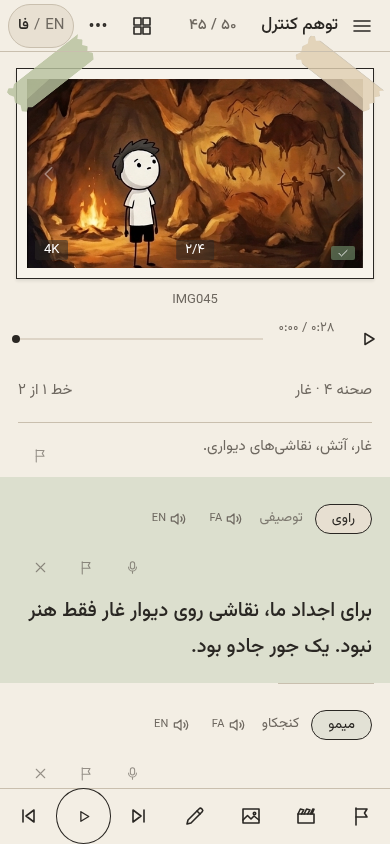
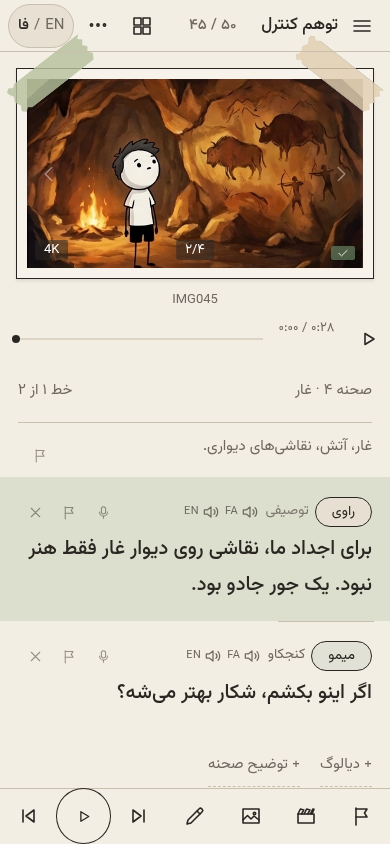
نسخهٔ ۲٫۳: پاکسازی و مستند؛ حذف نوشتن model سطح صحنه، راهنمای مهاجرت در update.py، آیکونهای خط موبایل در یک ردیف، بهروزرسانی مستندات

diff --git a/tools/ui/css/mobile.css b/tools/ui/css/mobile.css
@@ -297,6 +297,35 @@
     min-width:44px;
   }
 
+  /* a dialogue line's chip and its icons share one row: the 44px hit areas overlap the row (negative margins), they do not make it taller */
+  .who {
+    flex-wrap:nowrap;
+    gap:0 6px;
+    min-height:28px;
+  }
+
+  .who .nm {
+    min-width:0;
+    min-height:28px;
+    flex:0 1 auto;
+    overflow:hidden;
+    text-overflow:ellipsis;
+    white-space:nowrap;
+  }
+
+  .who .lt {
+    flex:none;
+    gap:0;
+  }
+
+  .who button,
+  .who .ab {
+    margin:-8px -5px;
+    min-width:44px;
+    min-height:44px;
+    justify-content:center;
+  }
+
   .ib,
   .drow,
   .opt {

diff --git a/tools/update.py b/tools/update.py
@@ -41,6 +41,45 @@ def local_version():
     return open(p, encoding="utf-8").read().strip() if os.path.exists(p) else "none"
 
 
+def old_format_reasons(root):
+    """What in this project is still in the pre-image format (nothing is changed): [] when story.txt and the audio folder are current."""
+    out, story = [], os.path.join(root, "story.txt")
+    if os.path.exists(story):
+        lines = [l.strip() for l in open(story, encoding="utf-8").read().splitlines()]
+        in_scene, seen_img, no_id, scene_level = False, False, False, False
+        pending = None  # a say: line still waiting for its id:
+        for l in lines + ["=== end ==="]:
+            if l.startswith("===") or re.fullmatch(r"\[IMG\d+\]", l) or l.startswith("say:"):
+                if pending:
+                    no_id = True
+                pending = True if l.startswith("say:") else None
+            elif l.startswith("id:"):
+                pending = None
+            if l.startswith("==="):
+                in_scene, seen_img = True, False
+            elif re.fullmatch(r"\[IMG\d+\]", l):
+                seen_img = True
+            elif in_scene and not seen_img and l.startswith(("voice-pick:", "voice-stale:")):
+                scene_level = True
+        if no_id:
+            out.append("dialogue lines without id:")
+        if scene_level:
+            out.append("scene-level voice-pick: / voice-stale:")
+    for _, _, names in os.walk(os.path.join(root, "audio")):
+        if any(re.fullmatch(r"IMG\d+_\d+(\..*)?\.\w+", n) for n in names):
+            out.append("audio files named IMGnnn_k")
+            break
+    return out
+
+
+def migrate_hint(root):
+    reasons = old_format_reasons(root)
+    if reasons:
+        print("This project still has old-format data (" + "; ".join(reasons) + ").")
+        print("See what migrating would change first (a dry run, nothing is touched):")
+        print("  python tools/migrate.py")
+
+
 def write(z, pre, rel, dest_root):
     data = z.read(pre + rel)
     dest = os.path.join(dest_root, *rel.split("/"))
@@ -93,6 +132,7 @@ def update():
         if "tools/migrate.py" in files:
             print("New voices and dialogue ids are named after the picture (IMG045-1). To bring an old project's voices over, first see what it would change (nothing is touched):")
             print("  python tools/migrate.py")
+    migrate_hint(ROOT)
 
 
 def new_project(folder):

diff --git a/tools/api.py b/tools/api.py
@@ -6,7 +6,7 @@ import history
 from kitcore import LANGS, MARKS, MODEL_RE, PROMPTS, STORY, VPROMPTS, read_lines, write_lines
 from story import clean_name, clean_tone, ensure_speaker, parse_prompts, parse_speakers, scene_ranges, story_scenes
 from media import archive_item, audio_variants, find_version, scan_images, scan_refs
-from edits import add_image, add_scene, mark_stale, move_scene, patch_image, set_default_model, set_flag, set_line_pick, set_scene_fx, set_scene_model, set_scene_off, set_stale, speech_scenes
+from edits import add_image, add_scene, mark_stale, move_scene, patch_image, set_default_model, set_flag, set_line_pick, set_scene_fx, set_scene_off, set_stale, speech_scenes
 from moves import add_image_at, move_images, scene_mark
 from lineedits import add_issue, add_line, clear_issue, delete_line, edit_line, locate
 from promptedits import replace_prompt, set_prompt_refs, upsert_prompt
@@ -247,21 +247,13 @@ def speaker(d):
 
 @route("/api/ttsmodel")
 def ttsmodel(d):
-    """set the default model (file) or a scene's model"""
-    model, scene = str(d.get("model", "")).strip(), d.get("scene")
-    if model and not MODEL_RE.fullmatch(model):
+    """set the default model (a scene-level «model:» line in an old story.txt is still read, but no longer written)"""
+    model = str(d.get("model", "")).strip()
+    if not model or not MODEL_RE.fullmatch(model):
         raise ValueError("bad model")
     lines = read_lines(STORY)
-    if scene:
-        if not re.fullmatch(r"scene-\d{2,3}", str(scene)):
-            raise ValueError("bad scene")
-        set_scene_model(lines, scene, model)
-        mark_stale(lines, [scene])
-    else:
-        if not model:
-            raise ValueError("model is empty")
-        set_default_model(lines, model)
-        mark_stale(lines, speech_scenes(lines, own_model=False))
+    set_default_model(lines, model)
+    mark_stale(lines, speech_scenes(lines, own_model=False))
     write_lines(STORY, lines)
 
 

diff --git a/tools/tests/test_units.py b/tools/tests/test_units.py
@@ -204,6 +204,24 @@ class StableLineIds(unittest.TestCase):
         self.assertEqual(lineedits.next_line_id(["id: L003", "voice-pick: L007.fa=x"]), "L008")
 
 
+class OldFormatHint(unittest.TestCase):
+    def check(self, story, audio=()):
+        import tempfile, update
+        with tempfile.TemporaryDirectory() as d:
+            open(os.path.join(d, "story.txt"), "w", encoding="utf-8").write(story)
+            os.makedirs(os.path.join(d, "audio", "fa"))
+            for n in audio:
+                open(os.path.join(d, "audio", "fa", n), "wb").close()
+            return update.old_format_reasons(d)
+
+    def test_current_project_gets_no_hint(self):
+        self.assertEqual(self.check("=== scene-01 | a | - ===\n[IMG001]\nsay: x | y\nid: IMG001-1\nvoice-stale: fa\n", ["IMG001-1.mp3"]), [])
+
+    def test_old_forms_are_named(self):
+        r = self.check("=== scene-01 | a | - ===\nvoice-stale: fa\n[IMG001]\nsay: x | y\n", ["IMG001_1.mp3"])
+        self.assertEqual(len(r), 3, r)
+
+
 class GitIgnoreRules(unittest.TestCase):
     def test_starter_gitignore_matches_the_updater_and_keeps_pictures_and_voices(self):
         import update

diff --git a/tools/edits.py b/tools/edits.py
@@ -201,20 +201,6 @@ def set_scene_fx(lines, scene_id, text):
         lines[k:k] = new
 
 
-def set_scene_model(lines, scene_id, model):
-    """Write (or remove, when model is empty) the scene's «model:» line."""
-    s, e = scene_span(lines, scene_id)
-    pos = next((i for i in range(s + 1, e) if lines[i].strip().startswith("model:")), None)
-    new = [f"model: {model}"] if model else []
-    if pos is not None:
-        lines[pos:pos + 1] = new
-    elif new:
-        k = s + 1
-        while k < e and lines[k].strip().split(":")[0] in TOP_KEYS:
-            k += 1
-        lines[k:k] = new
-
-
 def set_default_model(lines, model):
     pos = next((i for i, l in enumerate(lines) if l.startswith("tts-model:")), None)
     if pos is not None:

diff --git a/starter/skills/how-to-write-prompts-for-flow.md b/starter/skills/how-to-write-prompts-for-flow.md
@@ -87,7 +87,7 @@ voice-stale: fa                         ← صدای همین خط کهنه اس
 
 ### نسخهها، انتخاب نهایی و ترتیب صحنهها
 - **عکس:** هر شناسهٔ تصادفی Flow یک نسخه است (`IMG004_slug_edfa6fe0_2K.jpg`)؛ فایل بیشناسه هم یک نسخه است. `_1K` و `_2K` و `_4K` با همان شناسه یک نسخهاند و بهترین کیفیت (۴K، بعد ۲K، بعد معمولی) نشان داده و خروجی گرفته میشود؛ تکراری مرورگر (` (1)`) نادیده است. بعد از اسم پایه (`IMG004`) باید `_` یا پایان اسم بیاید (`IMG0041` تصویر دیگری است). زیرپوشهها بازگشتی خوانده میشوند (بهجز `archive` و `_rejected` و `inbox`). کاربر با ◀ ▶ میگردد و آخرین نسخهای که رویش میایستد با `pick:` (شناسهٔ تصادفی) ثبت میشود و همان **تأییدشده و نهایی** است؛ آمدن فایل ۴K همان نسخه، انتخاب را حفظ میکند و فقط فایل نمایش را بهتر میکند. بدون `pick:` جدیدترین نسخه نهایی حساب میشود. برای انتخاب هیچ فایلی جابهجا یا عوض اسم نمیشود. الگوی اسم را میشود در `kit-config.json` (کلید `name_pattern`) عوض کرد.
-- **صدا:** صدای هر مدل فایل جدا دارد: `audio/fa/IMG001_1.eleven-v3.mp3` (فایل بدون اسم مدل = قدیمی، با نام `default`). صدای مدل دیگر هیچوقت روی قبلی نمینشیند. صدایی که کاربر آخر میگذارد زیر همان خط توی `voice:` ثبت میشود و **صدای نهایی** است (بدون آن: `default`، وگرنه قدیمیترین؛ نام تازه `IMG001-1_<rid>.mp3` هم یک نسخهٔ همان خط است)؛ ساخت صدای تازه هم خودش نهایی میشود.
+- **صدا:** صدای هر مدل فایل جدا دارد: `audio/fa/IMG001-1.eleven-v3.mp3` (فایل بدون اسم مدل = قدیمی، با نام `default`). صدای مدل دیگر هیچوقت روی قبلی نمینشیند. صدایی که کاربر آخر میگذارد زیر همان خط توی `voice:` ثبت میشود و **صدای نهایی** است (بدون آن: `default`، وگرنه قدیمیترین؛ نام تازه `IMG001-1_<rid>.mp3` هم یک نسخهٔ همان خط است)؛ ساخت صدای تازه هم خودش نهایی میشود.
 - **جابهجایی تصویر:** تصویر = خط `[IMG###]` و همهٔ خطهای زیرش تا `[IMG]` یا سرصفحهٔ بعدی (یادداشت، `pick:`، دیالوگها با `id:` و `en:` و `voice:`). برای جابهجایی، کل همین بلوک را با هم میبرم و جای دیگر میگذارم؛ بلوک را نصفه نمیبرم و خطی را کپی یا حذف نمیکنم. اگر بلوک را از زیر یک `=== scene ===` به زیر سرصفحهٔ دیگر ببرم، تصویر جزو آن صحنه میشود (صحنه فقط یک خط نشانه است). بین دو صحنه دقیقاً یک خط خالی میگذارم. اسم هیچ فایلی عوض نمیشود. پیش از جابهجایی، `id:` خطهایی که ندارند را با همان نام قبلی (`IMG001_2`) صریح مینویسم و `voice-pick:`/`voice-stale:` قدیمی صحنه را زیر خطهای خودشان میبرم، وگرنه صدا گم میشود. صفحه همین کار را با `POST /api/move` میکند و `POST /api/undo` برش میگرداند. صحنهٔ تامبنیل (`scene-00`) تصویر نمیگیرد و نمیدهد.
 - **شروع و پایان صحنه:** صحنهٔ تازه = یک خط `=== scene-NN | عنوان | - ===` (شمارهٔ بعدیِ آزاد) درست بالای `[IMG]`ی که صحنه از آن شروع میشود، با `env:` اختیاری زیرش. برداشتن صحنه = پاک کردن فقط همان سرصفحه و خطهای `env:`/`fx:`/`off:`ش؛ تصویرها میروند توی صحنهٔ قبل. شناسهٔ تصویر سه یا چهار رقم است (`IMG045`، `IMG1000`)؛ `IMG0451` با `IMG045` یکی نیست. تصویری که فایل یا پرامپت دارد ولی `[IMG###]` ندارد را با نوشتن همان `[IMG###]` سر جایش میگذارم (شناسهٔ تازه نمیسازم).
 - **صحنهها:** ترتیب نهایی = ترتیب بلوکهای `=== scene-NN ===` توی فایل، نه شمارهٔ شناسه؛ شمارهٔ نمایشی هر صحنه جایگاهش است. کاربر میتواند صحنه را بالا و پایین ببرد (فقط بلوک جابهجا میشود، اسم هیچ فایل یا شناسهای عوض نمیشود)، با `off: yes` کنار بگذارد و برگرداند، یا صحنهٔ جدید (با چند جای خالی تصویر) بعد از صحنهای اضافه کند.

diff --git a/README.md b/README.md
@@ -5,19 +5,21 @@
 [فارسی](README.fa.md) · [Website](https://alishafiee1.github.io/storyboard-review-kit/) · License: MIT
 
 ## What it does
-- **One review page** (`review.html`): every scene with its generated image, the dialogue, the scene description and the image-generation prompt. Approve, mark for redo, add notes.
+- **One review page** (`review.html`): a spread per picture (image, its dialogue lines, prompt) plus a gallery of all pictures you can drag to reorder; a drawer menu holds the rest. On phones it is one picture per screen with a bottom bar. Mark for redo, add notes.
 - **Plain-text project**: `scenario/story.txt` and `prompts/prompts.txt` are the only sources of truth. Edit them in the page or in any editor; git-friendly.
 - **Bilingual lines** (Persian + English, right-to-left friendly), speakers with colours and voices, tone per line.
 - **In-browser editing**: click a text, edit, press Enter. Clicking elsewhere saves it.
-- **Voice-over**: pick a text-to-speech model and voice per speaker and scene (ElevenLabs, Gemini, Qwen, ... through one [OpenRouter](https://openrouter.ai) key), listen to a sample, rebuild only the scenes whose text changed.
+- **Voice-over**: pick a text-to-speech model and voice per speaker and per line (ElevenLabs, Gemini, Qwen, ... through one [OpenRouter](https://openrouter.ai) key), listen to a sample, rebuild only the lines whose text changed.
 - **Video prompts and clips**: every picture also has an image-to-video prompt (`prompts/video-prompts.txt`); pictures and references that already have a video get a ▶ play button.
-- **Auto-play button**: a round floating button plays on from the line you last clicked (FA or EN), in that language.
+- **Playback**: play on from the active line in FA or EN from the bar.
 - **Per-line listening**: every dialogue line with a generated voice file gets small 🔊 FA / 🔊 EN buttons to hear just that line.
 - **Edit suggestions** (`fx:`): short notes per scene and per picture (zoom, fade, shake, particles, light, sound) that the AI editor follows on top of its defaults.
 - **Subtitles**: one click writes `subtitles/fa.srt` and `subtitles/en.srt` from the scenario, timed by the voice files (ready to upload to YouTube).
 - **Versions and final choice**: several pictures (or voices) for the same shot are kept side by side; ◀ ▶ browse them and the one you stop on is the chosen, final one (`pick:` / `voice:` under the line in the scenario). No file is renamed or deleted.
-- **Scenes you can reorder**: move a scene up or down, set it aside (`off: yes`, nothing is deleted) or add a new one with empty picture slots, without renaming any picture or audio file.
-- **Stale flags**: when you change a text or a voice, the page marks that scene's audio or image as out of date.
+- **Image-based model**: a scene is only a marker line; every picture (`[IMG045]`) owns its dialogue lines (`IMG045-1`, `IMG045-2`, ...). Move pictures or scene markers and nothing is renamed. Flow versions (random id, 2K/4K) sit side by side; `pick:` is the final one.
+- **Inbox and batches**: `tools/watch.py` files Flow downloads from `Downloads`, `tools/batch.py b05` prints a batch's prompts, `inbox/` takes loose files.
+- **Undo**: every change is snapshotted in `.kit/history`; undo from the drawer.
+- **Stale flags**: when you change a text or a voice, the page marks that line's voice or picture as out of date.
 - **Updates without losing your work**: `python tools/update.py` replaces only the tool files; your scenario, prompts, images and audio stay untouched.
 
 ## Quick start (Windows, macOS, Linux)
@@ -43,6 +45,10 @@ Replaced files are copied to `.engine-backup/` first. To add the updater to a pr
 
 ## Voice-over setup (optional)
 Create a `.env` file next to `review.html` with one line `OPENROUTER_API_KEY=...` (it is git-ignored), then open the menu (hamburger, top right) → **Voices & speakers** and press "Refresh voice list", or run `python tools/voices.py`. Pick a voice per speaker and a model per scene; press "Rebuild voice" on a scene to generate it. Nothing is generated (and nothing is charged) until you press a button. Tones (the Persian word after a speaker's name, e.g. `علی (مرموز)`) are mapped to English audio tags in `voices/voice-config.json`; to hear which models, voices and tones work, run `python tools/voice_test.py` (it shows the cost first; add `--yes` to generate).
+
+## Old projects
+
+After `python tools/update.py` the updater tells you if `story.txt` or the audio names are in the old format. Run `python tools/migrate.py` first (a dry run, nothing changes), then `python tools/migrate.py --apply` if the report looks right.
 
 ## Folder layout
 | Path | What |

diff --git a/docs/redesign/CHECKLIST.md b/docs/redesign/CHECKLIST.md
@@ -91,10 +91,10 @@
 - [x] کامیت، تگ `v2.2.0` و `push` (بررسی مدیر پروژه: ۵۷ تست مرورگر و همهی تستهای واحد سبز؛ دکمهی «تأیید» حذف شده. اسکرینشات موبایل به `mobile.png` نزدیکه، ولی بلوکهای دیالوگ بلندترن، چون آیکونهای هر خط یه ردیف جدا گرفتن)
 
 ## ۹. پاکسازی و مستند (`v2.3.0`)
-- [ ] حذف کد صحنهمحور مرده
-- [ ] بهروز کردن راهنمای `AI`، `README` و `ARCHITECTURE.md`
-- [ ] `update.py` اجرای `migrate --dry-run` رو پیشنهاد میده
-- [ ] کامیت، تگ `v2.3.0` و `push`
+- [~] حذف کد صحنهمحور مرده (فقط نوشتن `model:` سطح صحنه حذف شد؛ مسیرهای صحنه هنوز در منوی صحنه صدا زده میشوند و ماندند)
+- [~] بهروز کردن راهنمای `AI`، `README` و `ARCHITECTURE.md`
+- [~] `update.py` اجرای `migrate --dry-run` رو پیشنهاد میده
+- [~] کامیت و تگ `v2.3.0` انجام شد؛ `push` عمداً نشد
 
 ## انجامنشده یا عقبافتاده
 - (فاز ۱) رابط کاربری برای «برگردان» نیست؛ فقط `POST /api/undo` و `GET /api/project` (کلید `history`) آمادهاند. دکمهاش با منوی فاز ۶ میآید. **(در فاز ۶ حل شد: کشو ← «برگردان آخرین تغییر».)**
@@ -129,3 +129,4 @@
 - (فاز ۷) همهی موارد گالری با تست مرورگر و اسکرینشات `[~]` شدن؛ تیک نهایی با مدیر پروژه. کشیدن با لمس (نگهداشتن ۳۵۰ میلیثانیه) فقط در `Chromium` دسکتاپ شبیهسازیشده و روی گوشی واقعی امتحان نشده؛ جایگزین صفحهکلید برای جابهجایی نیست. فایل تصویریِ `inbox/` با `+` فقط جای خالی تازه میسازه و خودش به اون جا وصل نمیشه. «جای خالی»ها بدون پرامپت هم تکتک دیده میشن. نوار بالای موبایل هنوز دو ردیفه است (فاز ۸). `push` انجام نشد.
 - (فاز ۸) همهی موارد `[~]`؛ تیک نهایی با مدیر پروژه. روی گوشی واقعی امتحان نشده (فقط `Chromium` با نمای ۳۹۰×۸۴۴). فیلتر گالری فقط پنل فیلتر کشو رو باز میکنه و روی کاشیها اثر نداره؛ جستوجوی گالری جداست. دکمهی پخش کوچک زیر تصویر وضعیت «در حال پخش» رو نشون نمیده. دکمهی پرچم هم (فراتر از فهرست) توی نوار پایین موبایل اومده. دکمهی «کنار بگذار» توی موبایل فقط از منوی `⋯`/کشو در دسترسه. `push` انجام نشد.
 - (فاز ۸، یادداشت مدیر پروژه) روی موبایل آیکونهای هر خط (حذف، پرچم، صدا) یه ردیف جدا میگیرن و بلوکها از ماکاپ بلندترن؛ بهتره توی یه ردیف با متای گوینده بیان (فاز ۹ یا بعد).
+- (فاز ۹) ردیف آیکونهای خط روی موبایل در همان ردیف چیپ گوینده آمد (ناحیهٔ لمس ۴۴px با حاشیهٔ منفی)؛ اسکرینشات تازه شد. `regen_job(scene)` و مسیرهای صحنه برای پروژهها و اسکریپتهای قدیمی ماندند.

diff --git a/ARCHITECTURE.md b/ARCHITECTURE.md
@@ -49,7 +49,7 @@ the lines it owns and writes it back (a stale page gets a 409); before a structu
 speaker: راوی | #1565c0 | george | tone          speakers (colour, voice, default tone)
 tts-model: elevenlabs/eleven-v4-turbo           default voice model
 === scene-01 | title | 0:00-0:15 ===            scene header (ids may have 2-3 digits; order = order in the file)
-env: ...  fx: ...  model: ...  off: yes         scene-level keys right under the header (old files may also have voice-stale: / voice-pick: here; still read)
+env: ...  fx: ...  off: yes                     scene-level keys right under the header (old files may also have model: / voice-stale: / voice-pick: here; still read, no longer written)
 [IMG001]                                        a picture slot; every act / say below it, up to the next [IMG], belongs to it
 status: redo | pick: <rid> (or an old file name) | off: yes | note: ... | fx: ... | image-stale: yes
 act: ...   say: speaker (tone) | text   id: IMG045-1   en: translation   voice: fa=eleven-v3, en=default   voice-stale: fa   format-issue: ...
@@ -142,3 +142,8 @@ Both run on every push (`.github/workflows/tests.yml`).
 
 ## Phone layout and gallery bar (v2.2)
 Below 900px `body` is one CSS grid (7 columns; rows bar / picture / playback line / text / action bar). `#list`, `.blk.on`, `#foot > .ftp` and `.mact` are `display:contents`, so `.imgs`, `.txt`, `#tbar`, `#ttime` and the footer buttons are placed straight into it (`css/mobile.css`). Buttons marked `data-fwd="id"` (`#playS`, `.mact`) only click the real button of that id (handler in `player.js`), so there is one code path. The gallery bar (`#gstat`, `#gSearch`, `#gq`, `#gFilter`) lives in `#bar` and is shown by `body.gal`; the count is computed in `gallery.js` (`stat`). `#gMove` toggles `#gallery.reorder` (touch-action none, drag starts on move).
+
+## Cleanup (v2.3)
+- The page no longer writes a scene-level `model:` (`/api/ttsmodel` sets only the default model); old `model:` lines are still read. Scene routes (`scenemove`, `sceneoff`, `addscene`) stay: the scene menu in `versions.js` calls them. The model is image-based: scenes are marker lines, each picture owns its lines.
+- `update.old_format_reasons(root)` spots an old project (dialogue without `id:`, scene-level `voice-pick:` / `voice-stale:`, audio named `IMGnnn_k`); `update.py` then prints the `python tools/migrate.py` dry-run hint.
+- Phone: a line's chip and its icons share one row; the 44px hit areas overlap the row through negative margins (`css/mobile.css`).

diff --git a/CHANGELOG.md b/CHANGELOG.md
@@ -1,5 +1,11 @@
 # Changelog
 
+## 2.3.0
+- Cleanup: the page no longer writes a scene-level `model:` (`set_scene_model` and the scene branch of `/api/ttsmodel` are gone; old `model:` lines are still read).
+- `python tools/update.py` prints a `python tools/migrate.py` (dry run) hint when `story.txt` or the audio names are in the old format (`update.old_format_reasons`, with tests).
+- Phone: a dialogue line's chip and icons share one row (44px hit areas kept); new `mobile-review.png`.
+- README (EN, FA), ARCHITECTURE.md, the AI guide and starter/CLAUDE.md describe the image-based model. No new engine files.
+
 ## 2.2.0
 - The «تأیید» stamp button is gone from the footer (JS, CSS and tests too). Approval is still «stopping on a version»; the check on the picture and «تأیید شده» in the top bar stay.
 - Gallery fidelity: 5-6 columns, 8px gaps, 24px page padding, hairline ink border on tiles, 22px paper number badge (13px digits), 10px status dot; top bar shows centered «n / m تأیید شده» with a thin bar and percent, search (id / scene title / line text) and filter (opens the drawer's filter panel) icons on the left; «جابهجایی» (reorder mode) toggle so touch scrolling does not drag, long-press (350ms) still works.

diff --git a/starter/CLAUDE.md b/starter/CLAUDE.md
@@ -13,4 +13,6 @@
 | `inbox/` | منابع متفرقه؛ وقتی کاربر خواست، طبق بخش «ورود فایلها» در `skills/how-to-write-prompts-for-flow.md` مرتبشان کن (جابهجایی به پوشهٔ درست، ثبت در `.kit/imports.tsv`، هرگز حذف) |
 | `tools/watch.py`, `tools/batch.py` | نگهبان `Downloads` به `images/scenes/bNN/` و متن پرامپتهای یک دسته (`python tools/batch.py b05`) |
 | `tools/tts.py`, `tools/voices.py` | ساخت صدا و فهرست صداها (کلید `OPENROUTER_API_KEY` در `.env`) |
+| `.kit/history` | عکسهای لحظهای برای برگشت (undo) از منو؛ دست نزن |
+| `tools/migrate.py` | بردن پروژهٔ قدیمی به شناسههای تصویرمحور؛ همیشه اول بدون `--apply` (فقط گزارش) |
 | `tools/update.py` | بهروزرسانی موتور از GitHub بدون دست زدن به دادههای پروژه |
